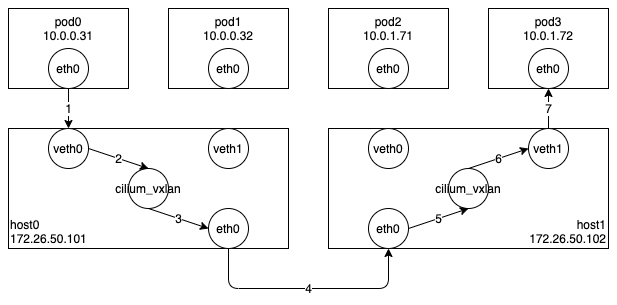
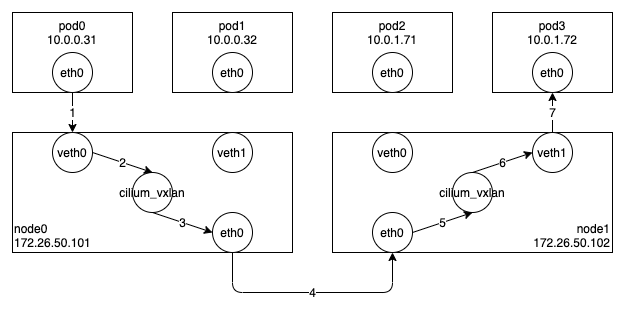
Fix k8s.cilium.vxlan blog

Changed region(s): [[0.0, 0.0, 1.0, 0.9738], [0.2464, 0.0, 0.4927, 0.3246], [0.5235, 0.0, 0.7391, 0.3246]]

diff --git a/k8s.cilium/vxlan/index.md b/k8s.cilium/vxlan/index.md
@@ -1,17 +1,25 @@
-cilium vxlan 동작 과정 분석
+Cilium 의 대표적인(기본설정) Datapath 기법은 VXLAN 에 기반하고 있다.
+리눅스 커널은 기본적으로 VXLAN 기능을 제공하고 있고, Cilium 은 이를 이용하고 있다.
+VXLAN 에 대한 자세한 설명은 생략하고, Cilium 의 동작 과정을 설명하면서 필요한 부분에 대해서만 간단히 부연설명하겠다.
+
+아래 그림은 Cilium 에서 VXLAN 을 사용할 경우 Pod-To-Pod 통신이 이루어지는 과정이다.
+Node0 의 Pod0 에서 Node1 의 Pod3 으로 패킷을 보내는 과정을 살펴보도록 하자.
+(Pod 이 서로 다른 노드에 존재하는 경우에 대해서만 설명하겠다.)
 
 ![cilium.vxlan](./cilium-vxlan.png)
 
-vxlan 의 라우팅 테이블
+우선 그림에 나오는 다양한 네트워크 장치에 대해 설명하도록 하겠다.
 
-```
-haruband@master:~$ route -n
-Kernel IP routing table
-Destination     Gateway         Genmask         Flags Metric Ref    Use Iface
-0.0.0.0         172.26.50.1     0.0.0.0         UG    0      0        0 eno1
-10.0.0.0        10.0.0.147      255.255.255.0   UG    0      0        0 cilium_host
-10.0.0.147      0.0.0.0         255.255.255.255 UH    0      0        0 cilium_host
-10.0.1.0        10.0.0.147      255.255.255.0   UG    0      0        0 cilium_host
-172.17.0.0      0.0.0.0         255.255.0.0     U     0      0        0 docker0
-172.26.50.0     0.0.0.0         255.255.255.0   U     0      0        0 eno1
-```
+첫 번째로, Cilium 에서는 새로운 Pod 을 생성할 때 VETH 를 하나씩 생성한다.
+VETH 는 두 개의 가상 네트워크 장치를 생성하여 서로 연결해주는 간단한 장치이다.
+위의 그림에서 보면 Pod0 안에 있는 eth0 와 node0 에 있는 veth0 은 연결된 한쌍의 VETH 이고, 이 말은 eth0 로 패킷을 전달하면 veth0 을 통해 패킷이 나가게 되고, 반대로 veth0 을 통해 패킷이 들어오면 eth0 로 패킷을 수신할 수 있다는 것이다.
+
+두 번째로, Cilium 에서는 실제 VXLAN 통신을 담당할 가상 네트워크 장치를 생성한다.
+이는 cilium_vxlan 이라는 이름을 사용하고, 노드별로 하나씩 생성된다.
+veth0 에서 필요한 정보를 포함하여 L2 패킷을 cilium_vxlan 장치로 전달하면, cilium_vxlan 은 해당 L2 패킷에 VXLAN 헤더와 해당 패킷을 물리적인 네트워크 환경을 통해 전달하기 위해 필요한 L2/L3/UDP 헤더를 추가하여 물리 네트워크 장치(node0 의 eth0)로 내보내게 된다.
+아래는 VXLAN 을 통해 외부로 나가는 실제 패킷의 구조이다.
+
+| Ethernet | IP | UDP | VXLAN | Ethernet(in) | IP(in) | Payload |
+
+위의 그림을 기준으로 실제 패킷에 들어가는 값을 정리해보면, 내부 IP 헤더의 출발지 주소는 10.0.0.31, 목적지 주소는 10.0.1.72 이고, 외부 IP 헤더의 출발지 주소는 172.26.50.101, 목적지 주소는 172.26.50.102 이다.
+그리고 외부 UDP 헤더는 VXLAN 이 기본적으로 사용하는 8472 이다.
